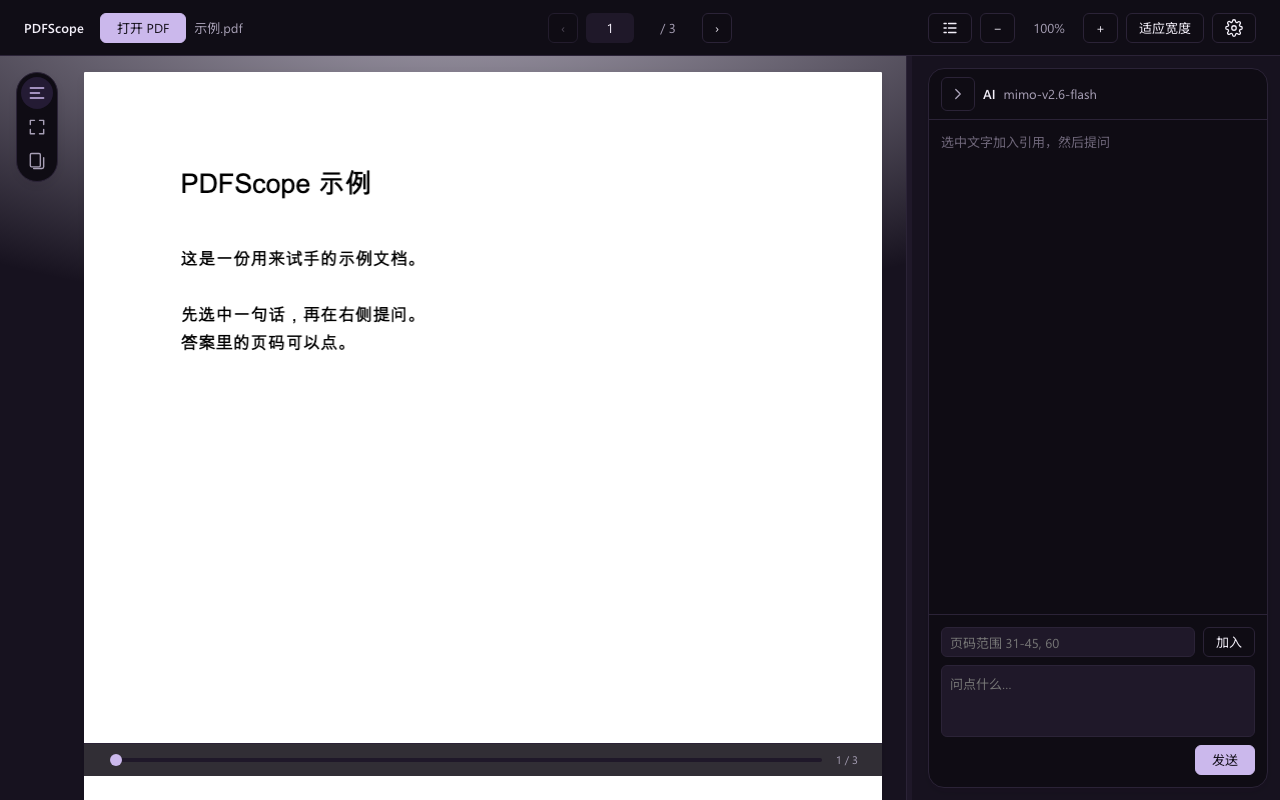
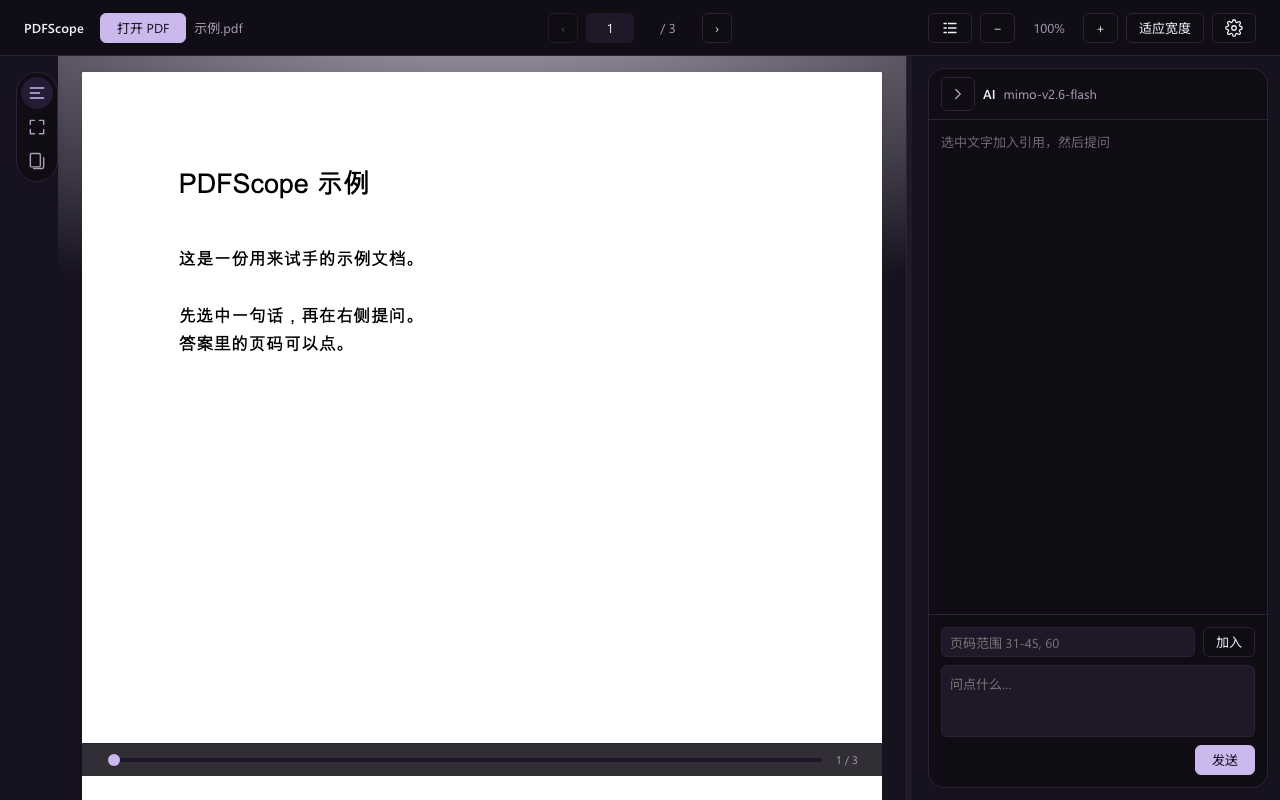
feat(ui): toasts wait while hovered, and the rail joins the layout
A toast no longer disappears under the cursor: the dismiss timer checks a
paused set, and leaving re-arms three seconds.

The tool rail became a layout column instead of an overlay. As an overlay it
required asymmetric stage padding, which left pages 30 px off-centre at low
zoom — the reader smoke caught it, and the stage padding hack is gone.

Spec: docs/specs/0020-consumer-grade.md

diff --git a/ui/public/styles.css b/ui/public/styles.css
@@ -255,8 +255,7 @@ body {
   overflow: auto;
   /* We own scroll anchoring during zoom; the browser must not adjust it as the scaler resizes. */
   overflow-anchor: none;
-  /* Room for the tool rail, so a page never slides under it on a narrow window. */
-  padding: var(--space-5) var(--space-5) var(--space-5) 84px;  /* size */
+  padding: var(--space-5);
 }
 
 /* The column is laid out once at the base width. Zoom transforms the whole column; the scaler
@@ -951,9 +950,10 @@ body {
 
 /* #6: floating tool rail */
 .float-tools {
-  position: absolute;
-  top: var(--space-4);
-  left: var(--space-4);
+  /* Part of the layout, not an overlay: pages keep centred and never slide underneath. */
+  flex: none;
+  align-self: flex-start;
+  margin: var(--space-4) 0 var(--space-4) var(--space-4);
   z-index: 8;
   display: flex;
   flex-direction: column;
@@ -1972,8 +1972,4 @@ mark.find-hit {
   background: color-mix(in srgb, var(--danger) 8%, var(--surface));
   border: 1px solid color-mix(in srgb, var(--danger) 30%, var(--border));
   border-radius: var(--radius-md);
-}
-
-.app.reading .stage {
-  padding-left: var(--space-5);
 }

diff --git a/ui/src/main.rs b/ui/src/main.rs
@@ -269,17 +269,16 @@ fn App() -> impl IntoView {
     let toasts = RwSignal::new(Vec::<(f64, String)>::new());
 
     // A toast is the app's smallest unit of feedback: one line, three seconds, at most three.
-    let notify = Callback::new(move |message: String| {
-        let id = js_sys::Date::now();
-        toasts.update(|list| {
-            list.push((id, message));
-            while list.len() > 3 {
-                list.remove(0);
-            }
-        });
+    // Hovering holds it: the timer checks the paused set when it fires, and leaving re-arms it.
+    let paused_toasts = RwSignal::new(Vec::<f64>::new());
 
+    let arm = move |id: f64| {
         let removal = Closure::once_into_js(move || {
+            if paused_toasts.get().contains(&id) {
+                return;
+            }
             toasts.update(|list| list.retain(|(toast, _)| *toast != id));
+            paused_toasts.update(|list| list.retain(|toast| *toast != id));
         });
 
         if let Some(window) = web_sys::window() {
@@ -288,6 +287,17 @@ fn App() -> impl IntoView {
                 3000,
             );
         }
+    };
+
+    let notify = Callback::new(move |message: String| {
+        let id = js_sys::Date::now();
+        toasts.update(|list| {
+            list.push((id, message));
+            while list.len() > 3 {
+                list.remove(0);
+            }
+        });
+        arm(id);
     });
     let outline = RwSignal::new(Vec::<(String, u32, u8)>::new());
     let outline_open = RwSignal::new(false);
@@ -1190,7 +1200,28 @@ fn App() -> impl IntoView {
                     toasts
                         .get()
                         .into_iter()
-                        .map(|(_, message)| view! { <div class="toast">{message}</div> })
+                        .map(|(id, message)| {
+                            view! {
+                                <div
+                                    class="toast"
+                                    on:mouseenter=move |_| {
+                                        paused_toasts.update(|list| {
+                                            if !list.contains(&id) {
+                                                list.push(id);
+                                            }
+                                        });
+                                    }
+                                    on:mouseleave=move |_| {
+                                        paused_toasts.update(|list| {
+                                            list.retain(|toast| *toast != id);
+                                        });
+                                        arm(id);
+                                    }
+                                >
+                                    {message}
+                                </div>
+                            }
+                        })
                         .collect_view()
                 }}
             </div>

diff --git a/docs/specs/0020-consumer-grade.md b/docs/specs/0020-consumer-grade.md
@@ -191,6 +191,14 @@ documents; toasts never block input. A mis-shown banner costs one click, not dat
   header floats on a blurred surface.
 - Palette and fonts are unchanged; the change is layout, elevation and background only.
 
+## Toast and rail
+
+- Toasts hold while hovered: the dismiss timer checks a paused set and does nothing if the reader is
+  still reading; leaving re-arms a fresh three seconds (remaining time is not tracked — a deliberate
+  simplification). Verified: hover 4 s keeps it, leave 3.6 s removes it.
+- The tool rail is a layout column now, not an overlay: as an overlay it forced asymmetric stage
+  padding, and the page stopped being centred at low zoom (the smoke caught 30 px of drift).
+
 ## Screenshot matrix
 
 `docs/images/matrix/` holds twelve captures: welcome and reader, at 900×700, 1280×800 and 1512×982,

diff --git a/CHANGELOG.md b/CHANGELOG.md
@@ -137,6 +137,10 @@ minor releases may contain breaking changes; they are always called out.
 
 ### Fixed
 
+- Toasts stay while hovered, and the tool rail is part of the layout so pages stay centred when
+  zoomed out.
+
+
 - On narrow windows the page no longer slides under the tool rail; the stage reserves room for it.
 
 
